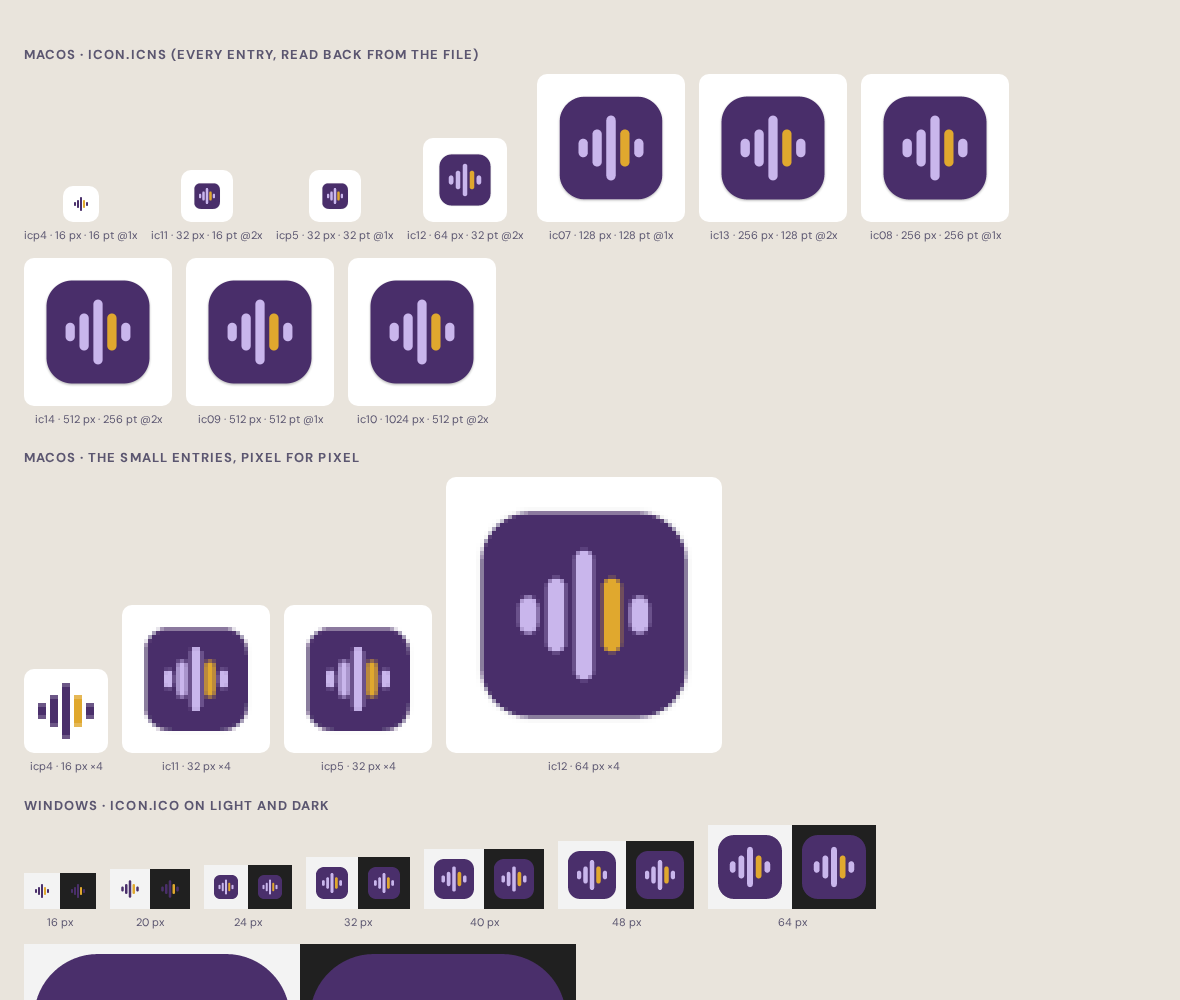
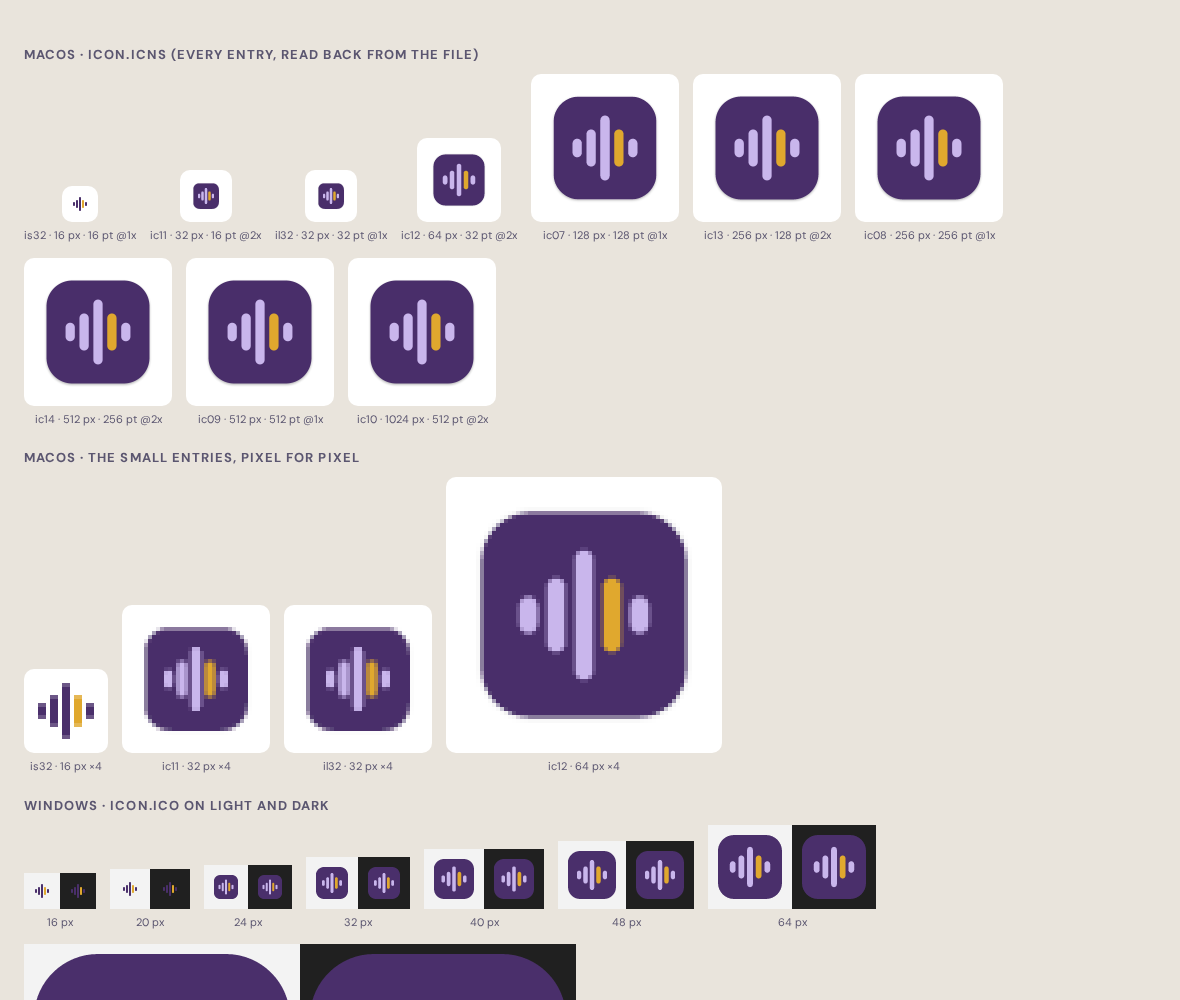
fix: what the brand review confirmed on the desktop side
- Menu bar: the mark's box is 16 pt at a whole-point offset, so every bar
  edge lands on a pixel at 1x and 2x (at 18 pt they all blurred). The mark
  is never dimmed any more (idle's fourth bar fell to 1.8 : 1); being in a
  call is a dot beside it, outside its clear space.
- Windows / Linux tray: the bare mark, crisp at 16 px, berenjena or lila as
  the taskbar is light or dark (Windows says so in the registry); the tile
  blurred at 16 px.
- App icon: the 20 px .ico entry is the 16 px drawing centred, crisp; the
  macOS 16/32 px @1x entries use is32/il32 + masks, since the PNG slots drew
  as noise in the .dmg window's title bar on CI.
- .dmg window: 28 pt taller, for Finder's title bar.
- CI uploads the iconset as macOS decodes it.

diff --git a/src-tauri/src/tray.rs b/src-tauri/src/tray.rs
@@ -11,21 +11,49 @@ use tauri::{AppHandle, Manager, Wry};
 const TRAY_ID: &str = "sidevoice";
 
 // Drawn by scripts/make-icons.mjs (docs/BRAND.md). macOS: template images (black + alpha), which it tints
-// for light and dark menu bars. Windows and Linux do not tint tray icons, so they get the brand's tile in
-// colour, which reads on light and dark bars alike.
+// for light and dark menu bars. Windows and Linux do not tint tray icons, so the mark comes in the brand's
+// two looks, berenjena for light bars and lila for dark ones, and the app picks by the bar's colour.
 #[cfg(target_os = "macos")]
 mod art {
-    pub const IDLE: &[u8] = include_bytes!("../icons/tray/idle.png");
-    pub const LIVE: &[u8] = include_bytes!("../icons/tray/live.png");
-    pub const MUTED: &[u8] = include_bytes!("../icons/tray/muted.png");
+    use sidevoice_desktop_core::bridge::TrayIcon;
     pub const TEMPLATE: bool = true;
+    pub fn bytes(which: TrayIcon) -> &'static [u8] {
+        match which {
+            TrayIcon::Idle => include_bytes!("../icons/tray/idle.png"),
+            TrayIcon::Live => include_bytes!("../icons/tray/live.png"),
+            TrayIcon::Muted => include_bytes!("../icons/tray/muted.png"),
+        }
+    }
 }
 #[cfg(not(target_os = "macos"))]
 mod art {
-    pub const IDLE: &[u8] = include_bytes!("../icons/tray/color-idle.png");
-    pub const LIVE: &[u8] = include_bytes!("../icons/tray/color-live.png");
-    pub const MUTED: &[u8] = include_bytes!("../icons/tray/color-muted.png");
+    use sidevoice_desktop_core::bridge::TrayIcon;
     pub const TEMPLATE: bool = false;
+    pub fn bytes(which: TrayIcon) -> &'static [u8] {
+        match (bar_is_light(), which) {
+            (true, TrayIcon::Idle) => include_bytes!("../icons/tray/light-idle.png"),
+            (true, TrayIcon::Live) => include_bytes!("../icons/tray/light-live.png"),
+            (true, TrayIcon::Muted) => include_bytes!("../icons/tray/light-muted.png"),
+            (false, TrayIcon::Idle) => include_bytes!("../icons/tray/dark-idle.png"),
+            (false, TrayIcon::Live) => include_bytes!("../icons/tray/dark-live.png"),
+            (false, TrayIcon::Muted) => include_bytes!("../icons/tray/dark-muted.png"),
+        }
+    }
+    /// Windows says whether its taskbar is light (Settings → Personalisation → Colours → "Windows mode").
+    /// Read at every icon change, so a switch shows by the next change of call state.
+    #[cfg(windows)]
+    fn bar_is_light() -> bool {
+        winreg::RegKey::predef(winreg::enums::HKEY_CURRENT_USER)
+            .open_subkey(r"Software\Microsoft\Windows\CurrentVersion\Themes\Personalize")
+            .and_then(|key| key.get_value::<u32, _>("SystemUsesLightTheme"))
+            .map(|light| light == 1)
+            .unwrap_or(false)
+    }
+    /// Linux panels do not say; most (GNOME's top bar among them) are dark.
+    #[cfg(not(windows))]
+    fn bar_is_light() -> bool {
+        false
+    }
 }
 
 struct TrayItems {
@@ -36,11 +64,7 @@ struct TrayItems {
 }
 
 fn icon(which: TrayIcon) -> tauri::Result<Image<'static>> {
-    Image::from_bytes(match which {
-        TrayIcon::Idle => art::IDLE,
-        TrayIcon::Live => art::LIVE,
-        TrayIcon::Muted => art::MUTED,
-    })
+    Image::from_bytes(art::bytes(which))
 }
 
 pub fn create(app: &AppHandle) -> tauri::Result<()> {

diff --git a/scripts/dmg-settings.py b/scripts/dmg-settings.py
@@ -18,7 +18,10 @@ symlinks = {"Applications": "/Applications"}
 icon = defines["icon"]  # noqa: F821  the volume's own icon
 background = defines["background"]  # noqa: F821  1x + 2x in one TIFF
 
-window_rect = ((200, 140), (layout["width"], layout["height"]))
+# Finder's window bounds include its 28 pt title bar (measured on CI: a 400 pt window showed 372 of the
+# drawing), so the window is that much taller than the picture.
+TITLE_BAR = 28
+window_rect = ((200, 140), (layout["width"], layout["height"] + TITLE_BAR))
 default_view = "icon-view"
 show_status_bar = False
 show_tab_view = False

diff --git a/docs/BRAND.md b/docs/BRAND.md
@@ -13,11 +13,11 @@ dark interfaces, and the one-ink variant "Tono" (the fourth bar at 45 % of the i
 
 | Thing | Drawn from | Where |
 |---|---|---|
-| macOS app icon, every `.icns` entry (16 → 1024, 1x and 2x) | `logo/tile/sidevoice-tile.svg`; bare `logo/mark/sidevoice-mark.svg` at 16 px | `src-tauri/icons/icon.icns` |
-| Windows app icon (16, 20, 24, 32, 40, 48, 64, 256) | the tile; the bare mark at 16 and 20 px | `src-tauri/icons/icon.ico` |
+| macOS app icon, every `.icns` entry (16 → 1024, 1x and 2x) | `logo/tile/sidevoice-tile.svg`; bare `logo/mark/sidevoice-mark.svg` at 16 px @1x | `src-tauri/icons/icon.icns` |
+| Windows app icon (16, 20, 24, 32, 40, 48, 64, 256) | the tile; the bare mark (16 px box) at 16 and 20 px | `src-tauri/icons/icon.ico` |
 | Linux icons (32, 64, 128, 256, 512) | the tile | `src-tauri/icons/*.png` |
 | macOS menu bar: idle, live, muted | `logo/mark/sidevoice-mark-black.svg` (Tono) | `src-tauri/icons/tray/{idle,live,muted}.png` |
-| Windows / Linux tray: idle, live, muted | the tile | `src-tauri/icons/tray/color-*.png` |
+| Windows / Linux tray: idle, live, muted, for light and dark bars | `sidevoice-mark.svg`, `…-on-dark.svg`, and Tono in their inks | `src-tauri/icons/tray/{light,dark}-*.png` |
 | `.dmg` window background (1x, 2x) | `logo/lockup/sidevoice-lockup.svg` | `src-tauri/dmg/`, laid out by `scripts/dmg-settings.py` |
 | `.dmg` volume icon | the `.icns` above | CI |
 | Settings window | lockups (light and dark), DM Sans, palette | `ui/brand/`, `ui/settings.css` |
@@ -35,7 +35,8 @@ The room window (pairing, calls, first open) is the web interface, bundled from 
 - **Bars are never redrawn**: every drawing places the brand's own SVG, scaled uniformly.
 - **Minimum size, 16 px for the mark**: the tile carries the mark at 72 %, so a tile smaller than 22.3 px
   (27.6 px on Apple's grid) would put the mark under 16 px. Those sizes use the bare mark instead, as the brand's
-  own 16 px favicon does: `.icns` 16 px @1x, `.ico` 16 and 20 px. Every other size is the tile.
+  own 16 px favicon does: `.icns` 16 px @1x, `.ico` 16 and 20 px (its 24 box at 16 px, centred on whole pixels,
+  where every edge of the brand's grid lands on a pixel). Every other size is the tile.
 - **Minimum size, 20 px of mark for a lockup**: the settings header draws the lockup's mark at 28 px, the
   `.dmg` window at 30 pt.
 - **Clear space, a quarter of the mark's height**: the settings header leaves 24 px under the lockup (7 px
@@ -53,30 +54,38 @@ The room window (pairing, calls, first open) is the web interface, bundled from 
    little rounder than Apple's (≈ 22.4 %); the brand's tile is not reshaped. On macOS 26 the system may frame
    icons that are not built with Icon Composer: see "Left open".
 2. **Windows and Linux icons are full bleed**: the tile fills the square, as icons there do.
-3. **Tray states.** The menu bar image is a template (macOS tints it for light and dark bars, and when
-   highlighted):
-   - *idle* (no call): the Tono mark with the whole ink at 55 %, the fourth bar still at 45 % of it;
-   - *live* (in a call, microphone open): the Tono mark at full ink;
-   - *muted*: the same, crossed by a 2-unit slash with a 1.5-unit gap on each side, top left to bottom right
-     (as macOS's own microphone-off symbol). The slash is a state drawn over the mark, not part of it.
-4. **Tray size.** tray-icon draws a status item image 18 pt tall, so the bitmap is 48 × 36 px (@2x): the mark's
-   24-unit box fills the 18 pt (above the 16 px minimum at 1x). Clear space: the bars are 21 units tall, a
-   quarter is 5.25 units; the bitmap adds it left and right (32 × 24 units), and the menu bar gives it above
-   and below (1.5 units of box + 3 pt of a 24 pt bar = 5.5 units). Legibility was checked at 16, 18 and 22 pt
-   on light and dark bars (`docs/brand-screens/tray@1x.png`, `@2x`).
-5. **Windows / Linux tray in colour.** Those systems do not tint tray icons and their bars may be light or
-   dark, which the berenjena/lila rule cannot know. The tile reads on both, so it is the tray icon there, with the
-   same three states (idle at 55 %, live, muted with a lila slash). At 100 % scaling Windows draws tray icons at
-   16 px, where the tile's mark is 11.5 px: under the minimum. Accepted as the one exception, because the bare
-   mark would disappear on one of the two grounds; at 150 % and above it complies.
+3. **Tray states (macOS).** The menu bar image is a template (macOS tints it for light and dark bars, and when
+   highlighted). The mark is always the Tono file at full ink; the state is drawn beside or over it:
+   - *idle* (no call): the mark alone;
+   - *live* (in a call, microphone open): the mark and a dot to its right, outside its clear space;
+   - *muted*: the dot, and the mark crossed by a 2-unit slash with a 1.5-unit gap on each side, top left to
+     bottom right (as macOS's own microphone-off symbol). The slash is a state drawn over the mark, not part of it.
+   A first version dimmed the whole mark for *idle*; the review measured its fourth bar at 1.8 : 1 on a light bar,
+   so the mark is never dimmed now.
+4. **Tray size (macOS).** tray-icon draws a status item image 18 pt tall. The bitmap is 54 × 36 px (27 × 18 pt
+   @2x). The mark's 24 box is 16 pt (32 px) at a 1 pt offset, so the brand's grid lands on whole pixels at 1x and
+   2x (a first version at 18 pt blurred every bar edge). Clear space, a quarter of the bars' 21 units = 5.25
+   units (3.5 pt): 4 pt left of the bars inside the image, 4 pt before the dot; above and below, 2 pt inside the
+   image plus 3 pt of a 24 pt menu bar. Checked at 16, 18 and 22 pt on light and dark bars
+   (`docs/brand-screens/tray@1x.png`, `@2x`).
+5. **Windows / Linux tray.** Those systems do not tint tray icons and draw them square at 16 px (100 %), so it is
+   the bare mark at a 16 px box (crisp; a 32 px bitmap for 2x) in the brand's look for the bar: berenjena on
+   light, lila on dark. On Windows the app reads the taskbar's colour (`SystemUsesLightTheme`) at every icon
+   change; Linux panels do not say, so they get lila (GNOME's top bar and most panels are dark). States: *idle*
+   is the mark in one ink (Tono: the fourth bar at 45 % of berenjena or lila), *live* the mark in colour (the
+   mustard voice appears), *muted* the mark in colour, crossed out. No dot: a square icon has no room outside
+   the clear space. A first version used the tile, which blurred at 16 px (mark 11.5 px) — dropped.
 6. **The bare mark at 16/20 px** (the small `.icns`/`.ico` entries) is the light look (berenjena), like the
    brand's `favicon-16.png`. A static icon cannot switch with the theme, so on a dark title bar or Finder list the
-   berenjena bars read at 1.6 : 1 and only the mustard bar stands out. The rule for these sizes is the brand's;
-   the weakness is recorded here.
-7. **The `.dmg` window** (640 × 400 pt): bruma ground, the lockup centred on top, the app and Applications on a
-   shelf with a white arrow between them. Finder writes the icons' names over the picture in black in light mode
-   and in white in dark mode, so the shelf is a lilac chosen to hold both at 4.5 : 1 (`#7e6bab`: black 4.58,
-   white 4.59). It is not a palette colour: it sits between berenjena and lila in the brand's hue, for this one
+   berenjena bars read at 1.6 : 1 and only the mustard bar stands out; the tile instead would put the mark under
+   16 px. **One of the two rules has to give at 16 px; which is the brand owner's call** (the review's point 5).
+   The macOS 16 and 32 px @1x entries are stored as `is32`/`s8mk` and `il32`/`l8mk` (RLE RGB + mask), not PNG:
+   the PNG slots (`icp4`/`icp5`) drew as noise in the .dmg window's title bar on CI.
+7. **The `.dmg` window** (640 × 400 pt of picture; the window is 28 pt taller for Finder's title bar): bruma
+   ground, the lockup centred on top, the app and Applications on a shelf with a white arrow between them. The
+   icons' names are Finder's own text over the picture, and it is not certain it keeps them black in dark mode,
+   so the shelf is a lilac that holds black and white text alike at 4.5 : 1 (`#7e6bab`: black 4.58, white 4.59).
+   On CI (macOS 14) the names stayed black in both appearances. It is not a palette colour: it sits between berenjena and lila in the brand's hue, for this one
    purpose. The window is written by dmgbuild (no Finder scripting on CI); the background is one TIFF with the 1x
    and 2x drawings.
 8. **Settings window spacing**: an 8 px rhythm (8/16/24/32), 10 px field radius, pill buttons as in the brand

diff --git a/docs/WEB_BRAND_AUDIT.md b/docs/WEB_BRAND_AUDIT.md
@@ -5,26 +5,29 @@ README and brand sheet), with `213790b` as the reference for how tokens were map
 at `7565663`, relative to the rubasace/sidevoice root.
 
 Then, by the operator's extension of the task, the fixes that stay inside tokens, CSS and assets were applied on
-**`brand/web`** (pushed; not merged): `536fa0f`, `3be4bec`. A trial merge of `brand/web` over
+**`brand/web`** (pushed; not merged): `536fa0f`, `3be4bec`, `8f5995a` (the last one fixes what the adversarial
+review found in the first two). A trial merge of `brand/web` over
 `integrate/cursor-on-split` (`7b677bf`) is clean and builds; the pairing dialog of that merge is
 `docs/brand-screens/web-pairing-brand-web-over-split.png`. Verified on the **built** CSS (the room serves a
 build, and `react.css` beats `room.css` at equal weight): every changed rule was read back from
 `dist/assets/index-*.css` with its competitors, and the page was rendered headless
 (`docs/brand-screens/web-room-brand-web.png`, `web-header-brand-web.png`: DM Sans loaded, the lockup in the header).
+The review caught that one verification had read a build older than the last commit; everything was re-checked on
+a fresh build of `8f5995a` (computed styles in headless Chromium: fields in DM Sans, "Enviar" `#e4dbf6` on `#3a2f52`).
 
 ## Status at a glance
 
 | ID | Finding (short) | Severity | Status |
 |---|---|---|---|
 | L1 | Header "Sidevoice" is typed text in lila, not the lockup | high | **fixed** — the outlined `sidevoice-lockup-on-dark.svg` at 26 px (`RoomHeader.tsx`, `.brand img`) |
-| T1 | DM Sans never loaded; "Inter" named but not loaded either | high | **fixed** — `DMSans-Variable-latin.woff2` + `OFL.txt` in `src/assets/brand/`, `@font-face` and `--sv-font` in `tokens.css`, `:root` uses it |
+| T1 | DM Sans never loaded; "Inter" named but not loaded either | high | **fixed** — `DMSans-Variable-latin.woff2` + `OFL.txt` in `src/assets/brand/`, `@font-face` and `--sv-font` in `tokens.css`, `:root` uses it; form fields `font-family: inherit` (they kept the browser's font) |
 | C1 | "Enviar": noche on plum, 1.29 : 1 | high | **fixed** — soft lila text (9.2 : 1) and a visible hover, in `react.css` (kept off the line the functional branch changes) |
 | M1 | Favicons 404 on the production server (`/voice/favicon.svg` not routed) | high | **fixed** — moved to `src/assets/brand/`; the build emits them under `/voice/assets/` (checked in `dist/index.html`) |
 | C2 | Primary buttons turn grey on hover (1.44 : 1) | medium | **fixed** — `.ui-button--primary:hover` = `--sv-primary-soft` (11.9 : 1 with noche) |
 | C3 | White on `#ea4335` danger button, 3.92 : 1 | medium | **fixed** — new `--sv-danger-fill: #c7392d` (5.18 : 1); `--sv-danger` itself unchanged (see S1) |
 | F1 | Fields get the platform's blue focus ring | medium | **fixed** — lila `:focus-visible` outline on input/select/textarea |
 | S3 | The call button is Meet green | medium (question) | **open — brand owner** |
-| F2 | No `::selection` (system blue) | low | **fixed** — `--sv-primary-muted` ground, text colour kept (10.4 : 1) |
+| F2 | No `::selection` (system blue) | low | **fixed** — lila with noche (8.6 : 1). A first try on the plum ground vanished on the chat bubbles (1.1–1.2 : 1) |
 | F3 | No root `accent-color` | nit | **fixed** — `:root { accent-color: var(--sv-primary) }` |
 | B1–B3 | Blue-tinted greys in stats headers, loading dialog, language rows | low | **fixed** — through `--sv-muted`, `--sv-text`, `--sv-border` |
 | L2 | `SidevoiceMark` in any ink other than lila gives a look the kit lacks | low | not changed — the header no longer uses it; nothing else does |
